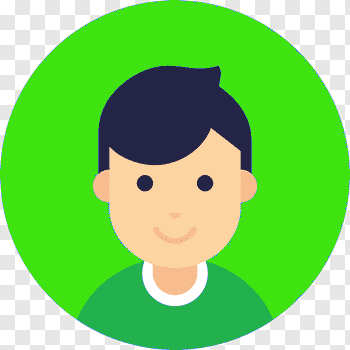
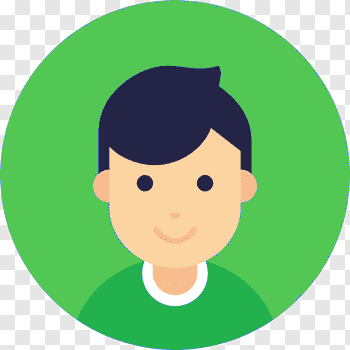
Changed green color tone

diff --git a/FastFood/MainWindow.xaml b/FastFood/MainWindow.xaml
@@ -6,7 +6,7 @@
     xmlns:local="clr-namespace:FastFood" mc:Ignorable="d" WindowStartupLocation="CenterScreen" Title="Inicio de sesión" Height="550" Width="400" ResizeMode="CanMinimize">
     <Grid>
         <Label Content="Inicio de sesión" HorizontalAlignment="Left" Margin="10,10,0,0" VerticalAlignment="Top" FontSize="24" FontWeight="Bold"/>
-        <Rectangle Fill="#FF57DA57" HorizontalAlignment="Left" Height="27" Margin="0,19.5,0,0" VerticalAlignment="Top" Width="7"/>
+        <Rectangle Fill="#FF53C753" HorizontalAlignment="Left" Height="27" Margin="0,19.5,0,0" VerticalAlignment="Top" Width="7"/>
         <TextBox x:Name="usernameInput" Height="26" Margin="102,273,102,0" KeyUp="Login_EnterKey" TextWrapping="Wrap" VerticalAlignment="Top" Background="#FFA7DEC0" FontSize="14" />
         <Label Content="Nombre de usuario" HorizontalAlignment="Left" Margin="102,244,0,0" VerticalAlignment="Top" FontStyle="Italic" Width="128" Padding="0,5,5,5" FontSize="14"/>
         <PasswordBox x:Name="passwordInput" Height="26" Margin="102,339,102,0" KeyUp="Login_EnterKey" VerticalAlignment="Top" Background="#FFA7DEC0" FontSize="14"/>
@@ -19,7 +19,7 @@
                 </RadialGradientBrush>
             </Image.OpacityMask>
         </Image>
-        <Button Content="Iniciar sesión" Margin="117,409,117,0" VerticalAlignment="Top" Click="Login_ButtonClick" Background="#FF57DA57" Foreground="White" BorderBrush="#FF57DA57" Height="40" FontWeight="Bold" FontSize="12.5">
+        <Button Content="Iniciar sesión" Margin="117,409,117,0" VerticalAlignment="Top" Click="Login_ButtonClick" Background="#FF53C753" Foreground="White" BorderBrush="#FF53C753" Height="40" FontWeight="Bold" FontSize="12.5">
             <Button.BitmapEffect>
                 <DropShadowBitmapEffect Color="Black" Direction="0" Softness="1" ShadowDepth="0" Opacity="0.2" />
             </Button.BitmapEffect>

diff --git a/readme.md b/readme.md
@@ -15,7 +15,7 @@ One of those things that FastFood can do is manage the tables that are inside yo
 
 ## Screenshots
 
-<img src="https://i.imgur.com/Ahqhyv9.png" width="256">
+<img src="https://i.imgur.com/UGuD4wS.png" width="256">
 
 ## How to begin?
 
